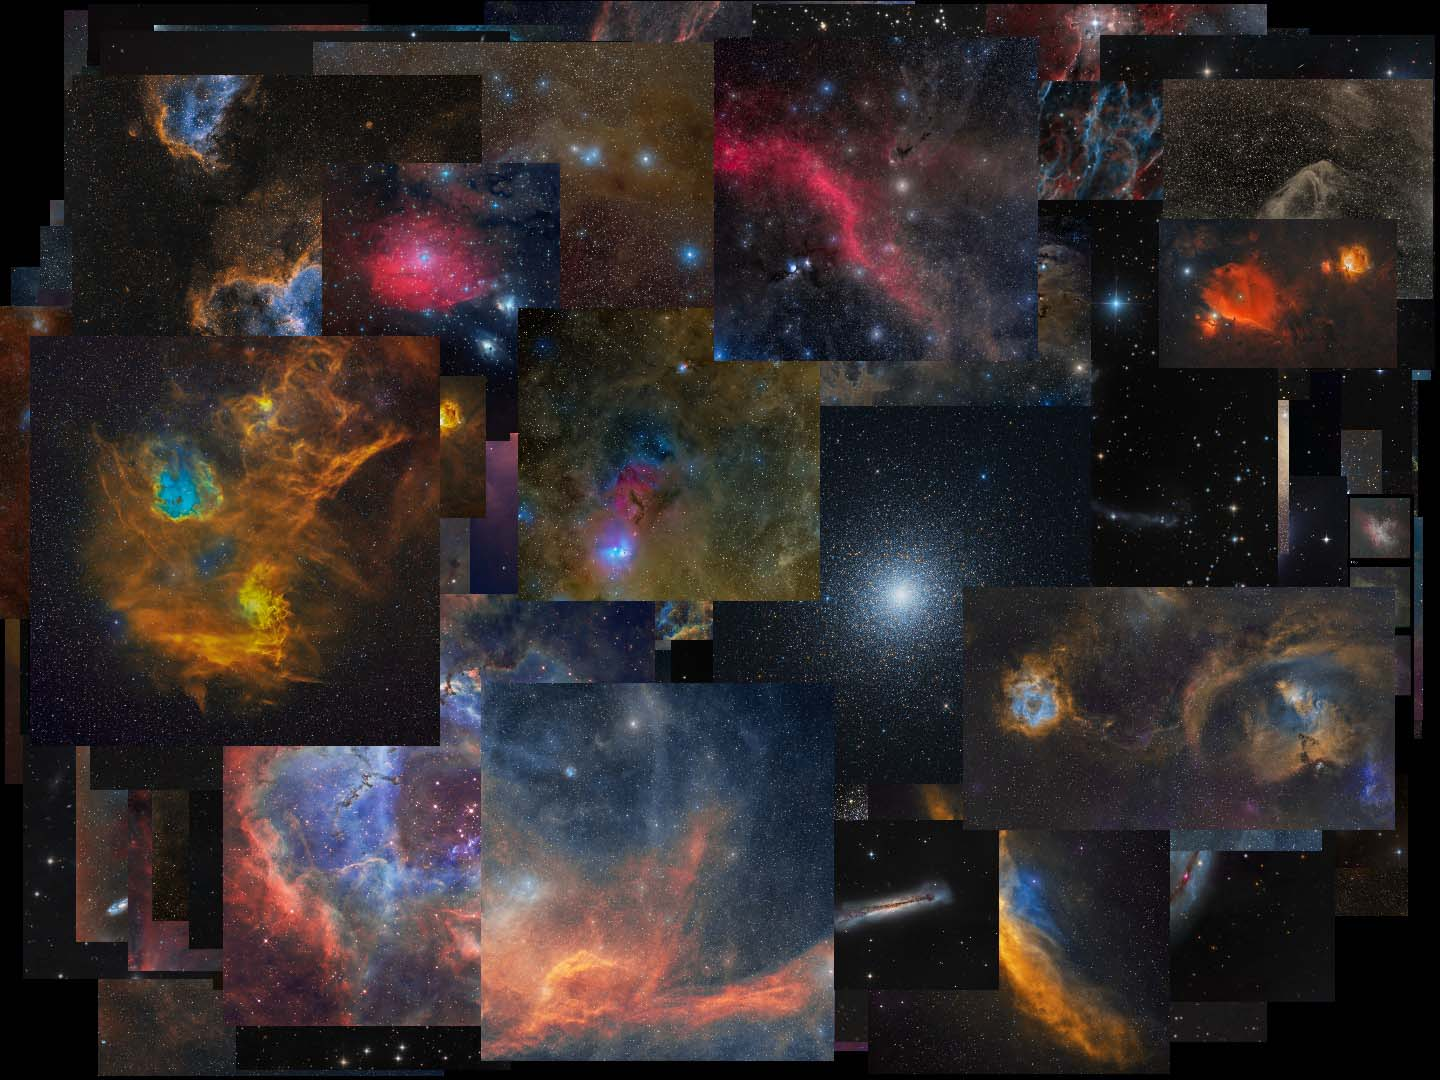
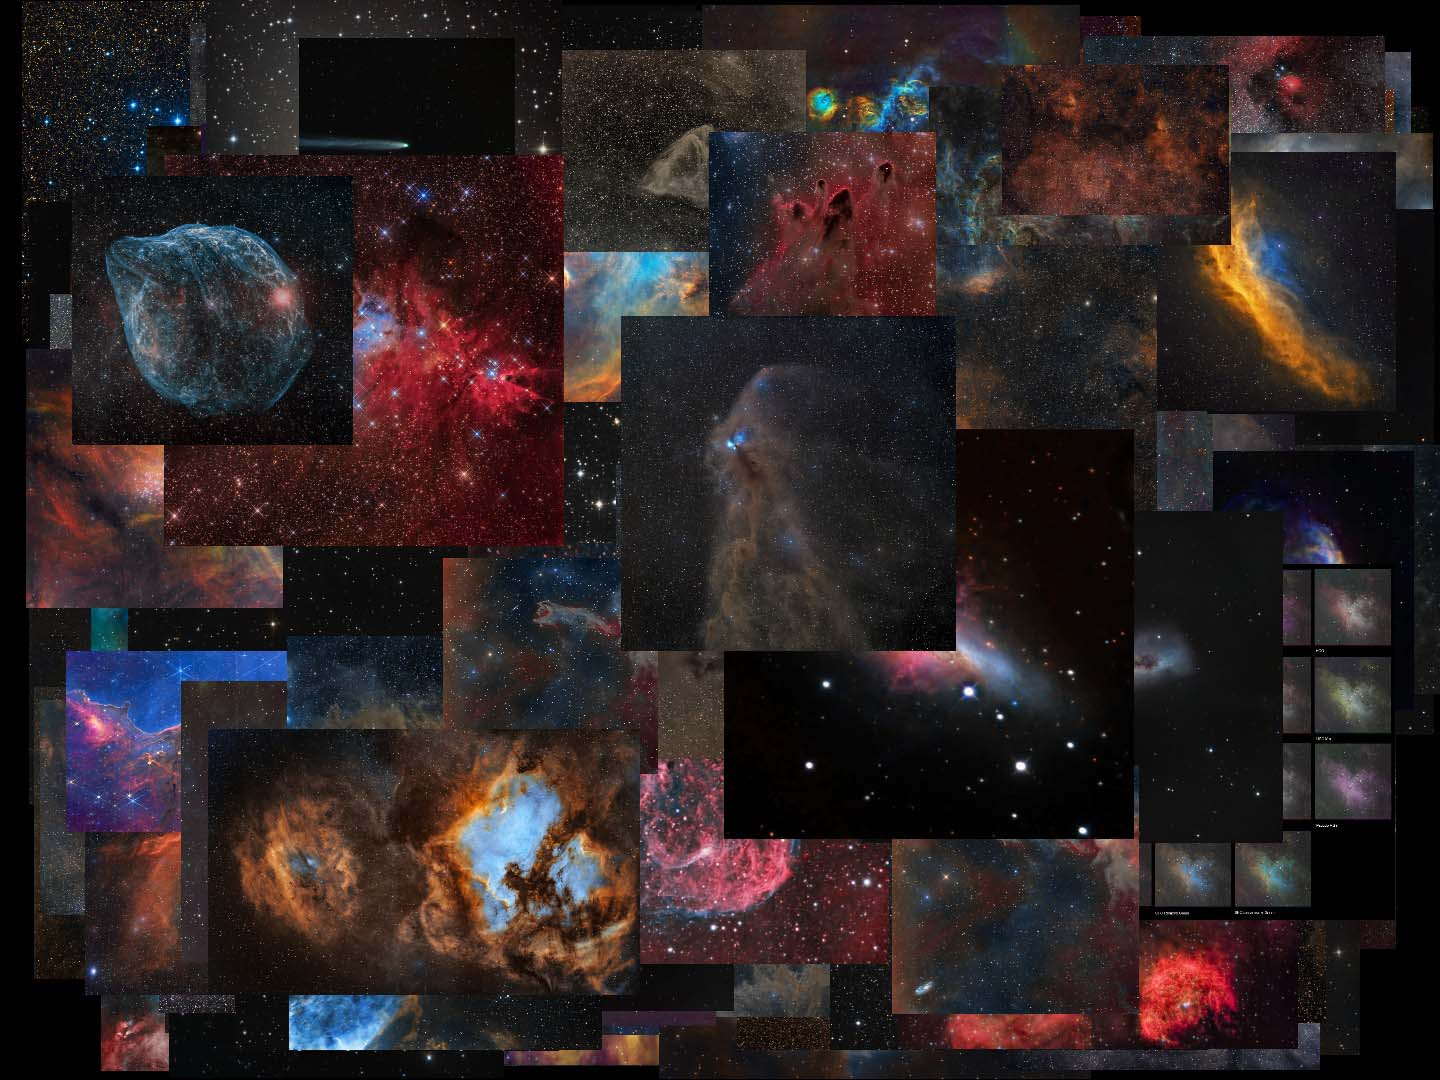
v1.88.0.test1

diff --git a/AutoIntegrateGlobal.js b/AutoIntegrateGlobal.js
@@ -28,17 +28,21 @@ super();
 
 /* Following variables are AUTOMATICALLY PROCESSED so do not change format.
  */
-this.autointegrate_version = "AutoIntegrate v1.87.5"; // Version, also updated into updates.xri
-this.autointegrate_info = "MLDenoise";                // For updates.xri
+this.autointegrate_version = "AutoIntegrate v1.88.0 test1"; // Version, also updated into updates.xri
+this.autointegrate_info = "Auto stretching, Auto tools";                // For updates.xri
 
 this.autointegrate_version_info = [
-      "Changes since the previous version:",
-      "- By default only integrated images and the final images",
-      "  are left on the desktop at the end of processing.",
-      "- Support for MLDenoise",
-      "- Small improvements",
-      "- Bug fixes",
-];
+        "Changes since the previous version:",
+        "- Auto image stretching selects the stretching",
+        "  method by analyzing the image",
+        "- Auto tool selection in Settings / Tools",
+        "- New fast mode option Subset, now the default",
+        "- FastIntegration picks a better reference image",
+        "- By default only integrated images and the final images",
+        "  are left on the desktop at the end of processing.",
+        "- Small improvements",
+        "- Bug fixes",
+  ];
 
 /* Interface version changes:
  *    0: Initial version.
